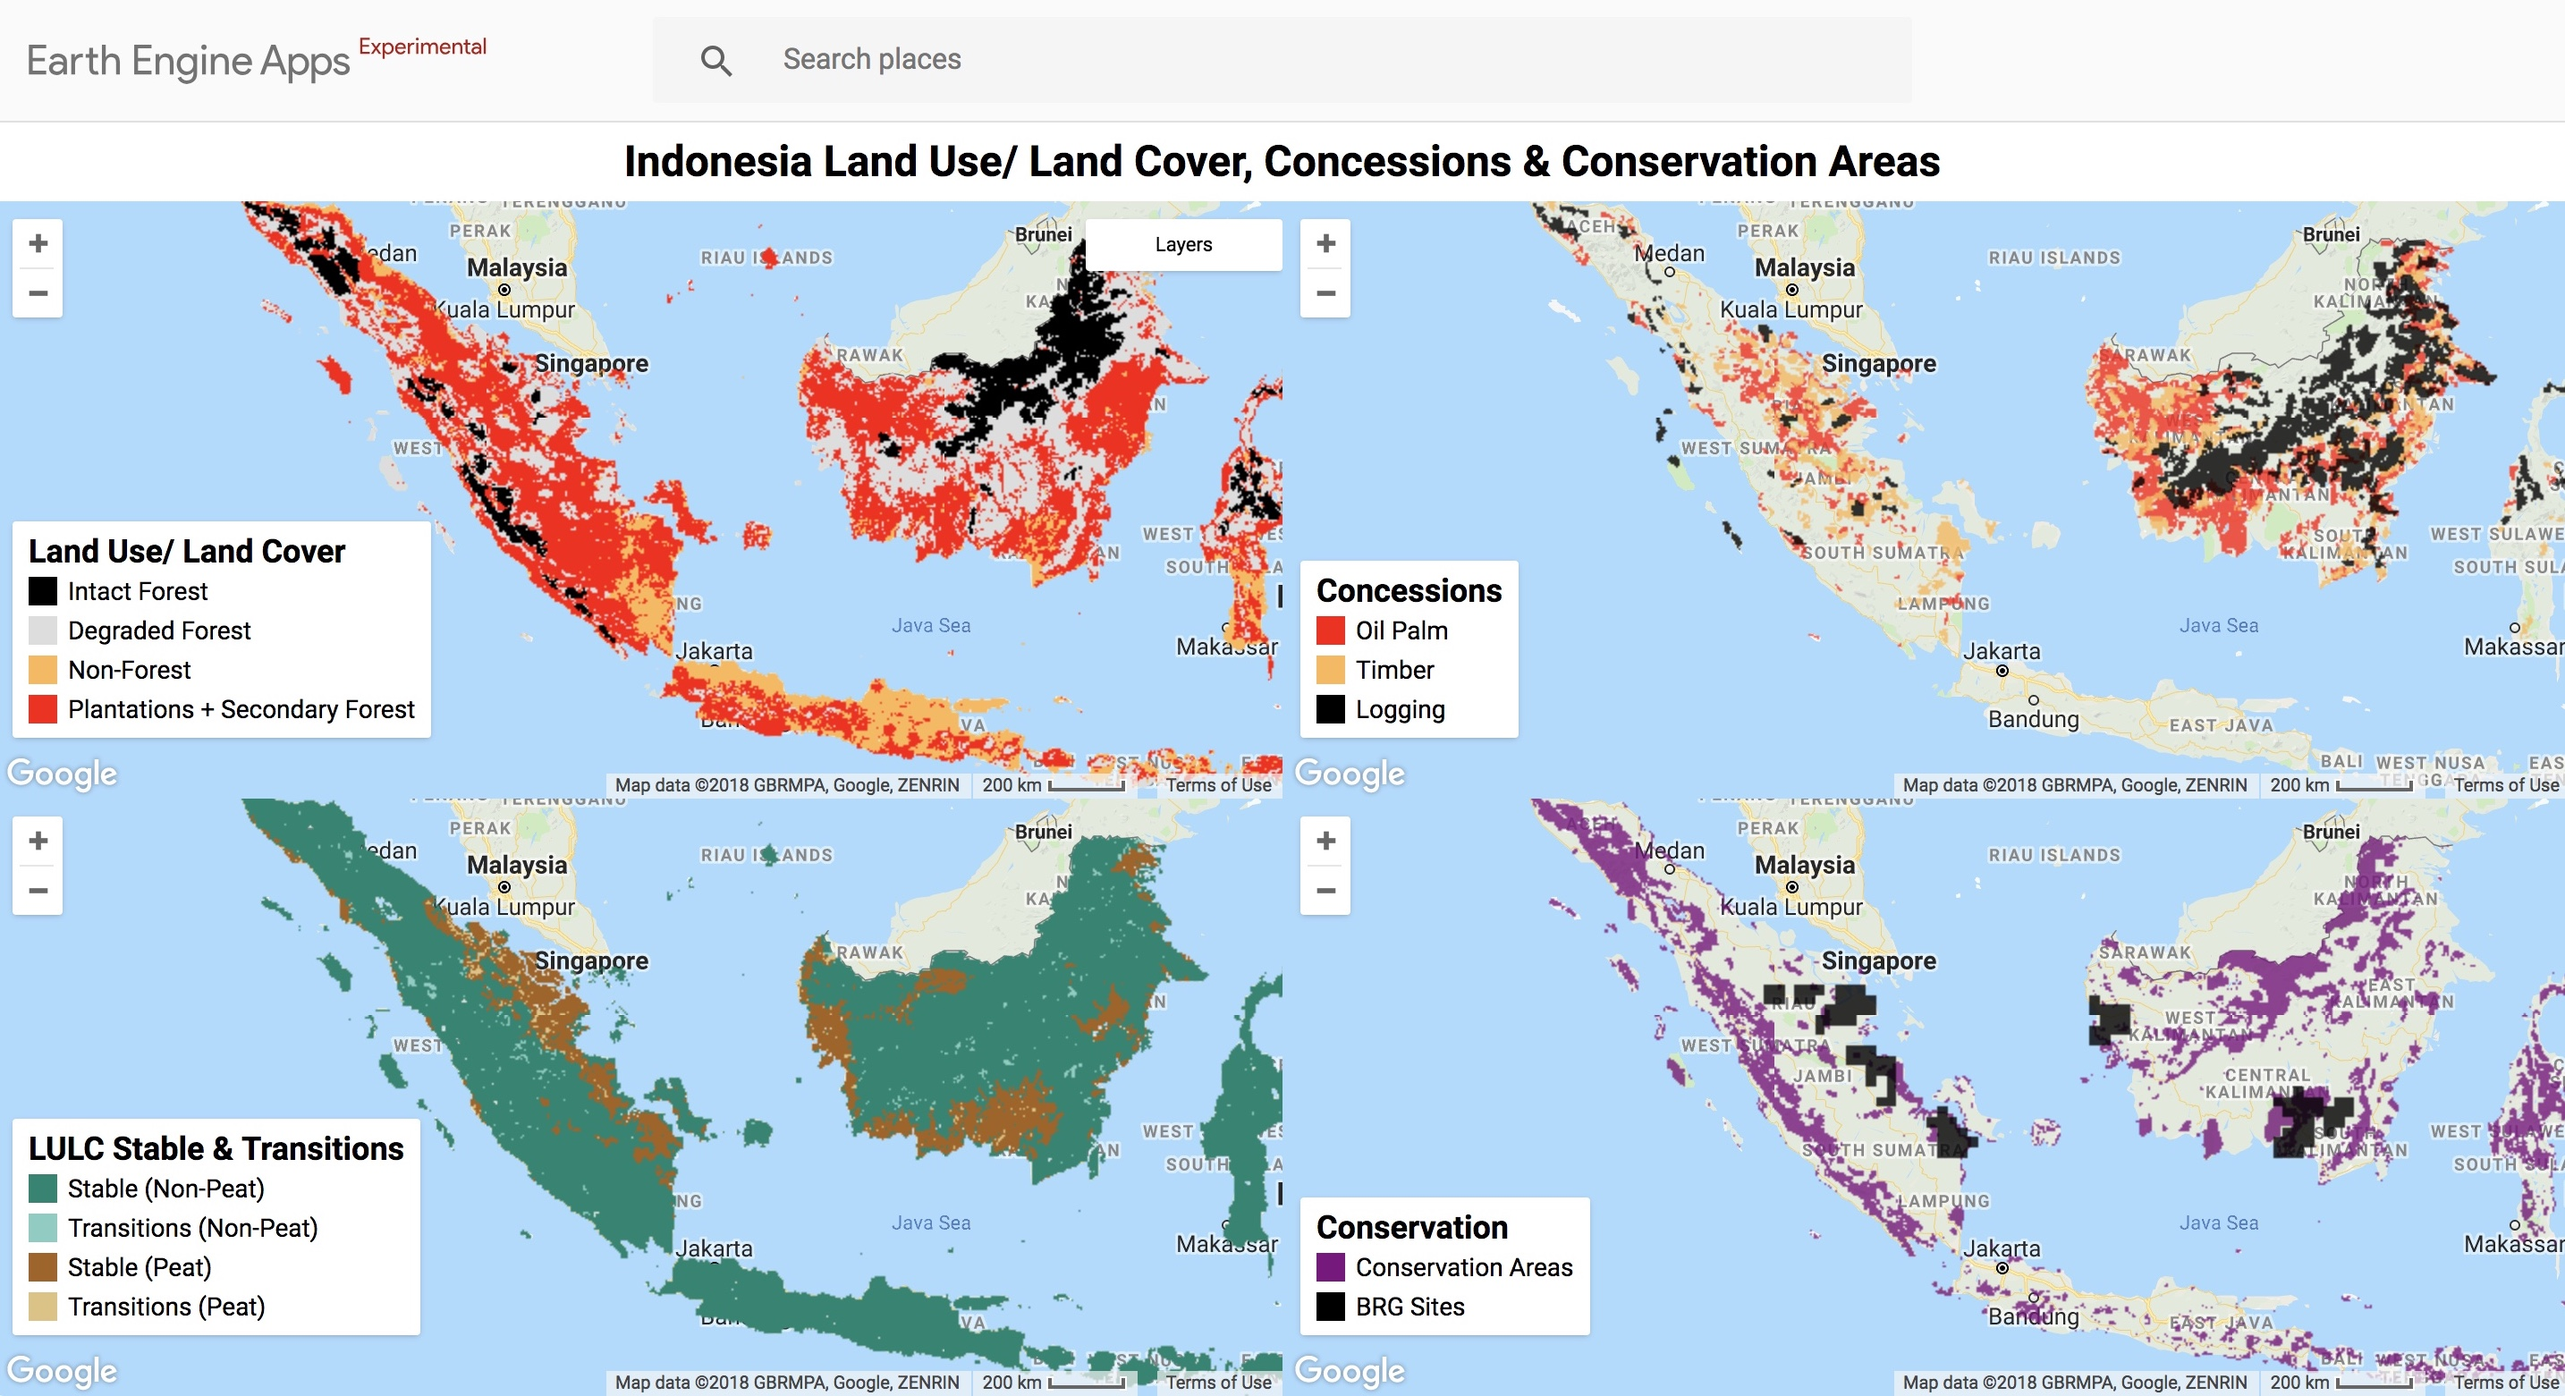
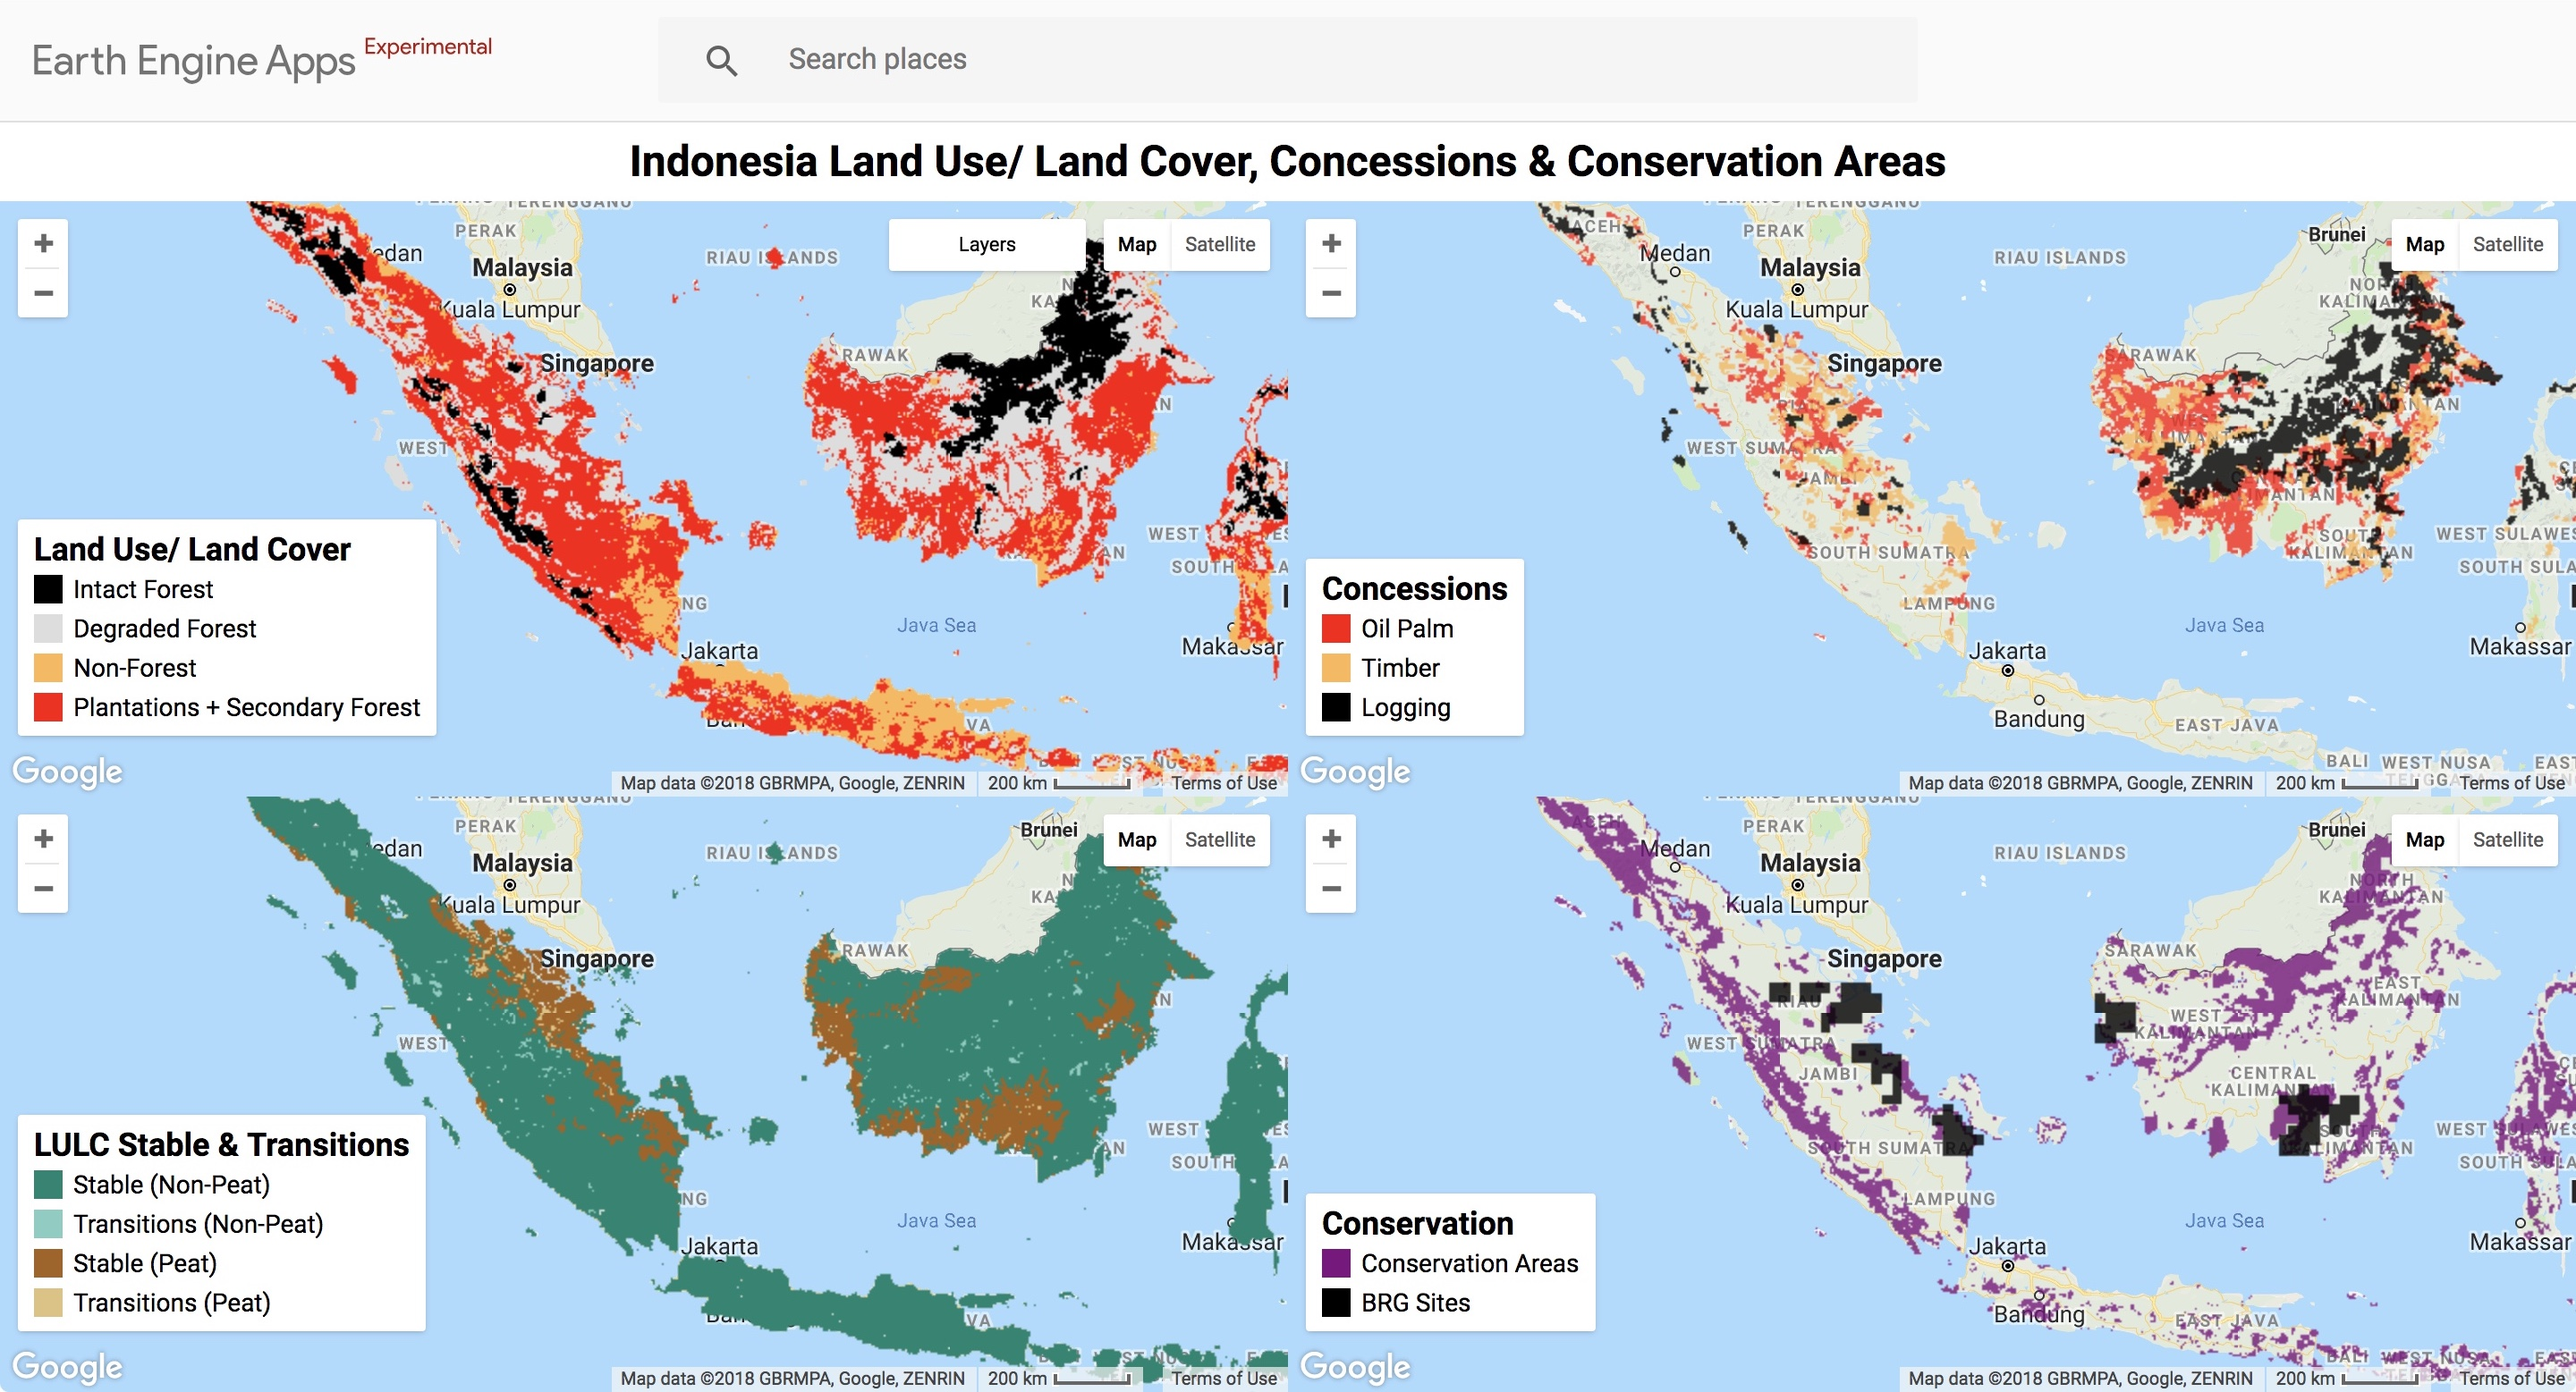
aesthetic changes

diff --git a/apps/SMOKEPolicyTool.js b/apps/SMOKEPolicyTool.js
@@ -6,7 +6,7 @@
 
 // Documentation: https://github.com/tianjialiu/SMOKE-Policy-Tool
 // Author: Tianjia Liu
-// Last updated: August 20, 2018
+// Last updated: August 22, 2018
 
 // Purpose: model and project the impact of Indonesian fires
 // on public health in Equatorial Asia for 2005-2029 based on
@@ -778,7 +778,7 @@ var csn_csvPanel = function(csn_csvBox, controlPanel) {
   controlPanel.add(ui.Label('Other Regions/Conservation:', {margin: '-1px 0px 4px 8px', stretch: 'horizontal'}));
   controlPanel.add(ui.Panel([
     ui.Panel([csn_csvBox[3]], null, {margin: '-2px -10px -2px 5px', stretch: 'horizontal'}),
-    ui.Panel([csn_csvBox[4]], null, {margin: '-11px -10px -2px 2px', stretch: 'horizontal'}),
+    ui.Panel([csn_csvBox[4]], null, {margin: '-10px -10px -2px 2px', stretch: 'horizontal'}),
     ui.Panel([csn_csvBox[5]], null, {margin: '-2px 0px -2px 18px', stretch: 'horizontal'}),
   ],
   ui.Panel.Layout.Flow('horizontal'), {margin: '2px 0px -4px 0px', stretch: 'horizontal'}));
@@ -1031,13 +1031,13 @@ submitButton.onClick(function() {
   var emissMap = getEmissMap(inputYear,metYear,receptor,inMask);
   
   map.clear(); map.setCenter(108,-1,6);
-  map.addLayer(lulcMapTS1.selfMask(),lulc_pal,'LULC Classification ' + lulcMapTS1.get('timestep').getInfo());
+  map.addLayer(lulcMapTS1.selfMask(),lulc_pal,'LULC Classification ' + lulcMapTS1.get('timestep').getInfo(), true);
   map.addLayer(lulcMapTS2.selfMask(),lulc_pal,'LULC Classification ' + lulcMapTS2.get('timestep').getInfo(), false);
   map.addLayer(stableTrans.selfMask(),lulcTrans_pal,'LULC Stable/Transitions', false);
   map.addLayer(sensitivityMap.updateMask(sensitivityMap.gt(1e4)),
     {palette: sensColRamp, max: 1e5, opacity: 0.4},'GEOS-Chem Adjoint Sensitivity (Jul-Oct)',true);
   map.addLayer(PMExposureMap.multiply(100).selfMask(),
-    {palette: PMRamp, max: 20},'PM2.5 Exposure (Jul-Oct), scaled by 100', false);
+    {palette: PMRamp, max: 20},'PM2.5 Exposure (Jul-Oct), scaled by 100', true);
   map.addLayer(emissMap.selfMask(),
     {palette: emissColRamp, max: 5},'OC+BC Emissions (Jul-Oct)', false);
   map.addLayer(populationDensity.selfMask(),
@@ -1048,7 +1048,6 @@ submitButton.onClick(function() {
     min: 0, max: 1, opacity: 0.4},'Design Scenario Mask', false);
   map.addLayer(getBRGmap(PMExposureMap), {palette: '000000,00BFFF', max: 1}, 'BRG Sites');
   map.add(brgLegend());
-  map.setControlVisibility({fullscreenControl: false});
 
   // Display Charts:
   var PMts = getPM(inputYear,metYear,receptor,inMask);

diff --git a/gee_public/UI_SMOKEPolicyTool.js b/gee_public/UI_SMOKEPolicyTool.js
@@ -6,7 +6,7 @@
 /*
 // Documentation: https://github.com/tianjialiu/SMOKE-Policy-Tool
 // Author: Tianjia Liu
-// Last updated: August 20, 2018
+// Last updated: August 22, 2018
 
 // Purpose: model and project the impact of Indonesian fires
 // on public health in Equatorial Asia for 2005-2029 based on
@@ -168,7 +168,7 @@ submitButton.onClick(function() {
   map.addLayer(sensitivityMap.updateMask(sensitivityMap.gt(1e4)),
     {palette: smokePM.sensColRamp, max: 1e5, opacity: 0.4},'GEOS-Chem Adjoint Sensitivity (Jul-Oct)',true);
   map.addLayer(PMExposureMap.multiply(100).selfMask(),
-    {palette: smokePM.PMRamp, max: 20},'PM2.5 Exposure (Jul-Oct), scaled by 100', false);
+    {palette: smokePM.PMRamp, max: 20},'PM2.5 Exposure (Jul-Oct), scaled by 100', true);
   map.addLayer(emissMap.selfMask(),
     {palette: smokePM.emissColRamp, max: 5},'OC+BC Emissions (Jul-Oct)', false);
   map.addLayer(smokeHealth.populationDensity.selfMask(),
@@ -179,7 +179,6 @@ submitButton.onClick(function() {
     min: 0, max: 1, opacity: 0.4},'Design Scenario Mask', false);
   map.addLayer(smokePM.getBRGmap(PMExposureMap), {palette: '000000,00BFFF', max: 1}, 'BRG Sites');
   map.add(plotParams.brgLegend());
-  map.setControlVisibility({fullscreenControl: false});
   
   // Display Charts:
   var PMts = smokePM.getPM(inputYear,metYear,receptor,inMask);

diff --git a/apps/IndonesiaLULCMaps.js b/apps/IndonesiaLULCMaps.js
@@ -6,7 +6,7 @@
 // *****************************************************************
 
 // Author: Tianjia Liu
-// Last updated: August 19, 2018
+// Last updated: August 22, 2018
 
 // Indonesia LULC Maps UI adapted and modified from code by Gennadii Donchyts
 // (https://code.earthengine.google.com/f0011ae8554cf924176fd7a931a38add)
@@ -135,7 +135,7 @@ var conservation_ramp = ['#800080','#000000'];
 var maps = [];
 panelNames.forEach(function(name, index) {
   var map = ui.Map();
-  map.setControlVisibility({layerList: false, fullscreenControl: false, mapTypeControl: false});
+  map.setControlVisibility({layerList: false, fullscreenControl: false});
   
   if (index === 0) {
     map.addLayer(lulcMapTS1.selfMask(),lulc_pal,'LULC, 2005');

diff --git a/gee_public/UI_IndonesiaLULCMaps.js b/gee_public/UI_IndonesiaLULCMaps.js
@@ -6,7 +6,7 @@
 // *****************************************************************
 
 // Author: Tianjia Liu
-// Last updated: August 19, 2018
+// Last updated: August 22, 2018
 
 // UI LULC Maps adapted and modified from code by Gennadii Donchyts
 // (https://code.earthengine.google.com/f0011ae8554cf924176fd7a931a38add)
@@ -51,7 +51,7 @@ var conservation_ramp = ['#800080','#000000'];
 var maps = [];
 panelNames.forEach(function(name, index) {
   var map = ui.Map();
-  map.setControlVisibility({layerList: false, fullscreenControl: false, mapTypeControl: false});
+  map.setControlVisibility({layerList: false, fullscreenControl: false});
   
   if (index === 0) {
     map.addLayer(lulcMapTS1.selfMask(),smokeLULC.lulc_pal,'LULC, 2005');

diff --git a/gee_public/Modules/plotParams.js b/gee_public/Modules/plotParams.js
@@ -73,7 +73,7 @@ exports.csn_csvPanel = function(csn_csvBox, controlPanel) {
   controlPanel.add(ui.Label('Other Regions/Conservation:', {margin: '-1px 0px 4px 8px', stretch: 'horizontal'}));
   controlPanel.add(ui.Panel([
     ui.Panel([csn_csvBox[3]], null, {margin: '-2px -10px -2px 5px', stretch: 'horizontal'}),
-    ui.Panel([csn_csvBox[4]], null, {margin: '-11px -10px -2px 2px', stretch: 'horizontal'}),
+    ui.Panel([csn_csvBox[4]], null, {margin: '-10px -10px -2px 2px', stretch: 'horizontal'}),
     ui.Panel([csn_csvBox[5]], null, {margin: '-2px 0px -2px 18px', stretch: 'horizontal'}),
   ],
   ui.Panel.Layout.Flow('horizontal'), {margin: '2px 0px -4px 0px', stretch: 'horizontal'}));

diff --git a/README.md b/README.md
@@ -5,7 +5,7 @@ SMOKE Policy Tool in Google Earth Engine
 
 ## Public Apps
 (*Earth Engine Apps, no Google Earth Engine account required*)
-1. [**Smoke Policy Tool UI**](https://smokepolicytool.users.earthengine.app/view/smoke-policy-tool): main tool for modeling and projecting the impact of Indonesian fires on public health in Equatorial Asia for 2005-2029 based on land cover/ land use (LULC) classification, Global Fire Emissions Database, version 4s ([GFEDv4s](https://www.globalfiredata.org/)) fire emissions, and meteorology
+1. [**SMOKE Policy Tool UI**](https://smokepolicytool.users.earthengine.app/view/smoke-policy-tool): main tool for modeling and projecting the impact of Indonesian fires on public health in Equatorial Asia for 2005-2029 based on land cover/ land use (LULC) classification, Global Fire Emissions Database, version 4s ([GFEDv4s](https://www.globalfiredata.org/)) fire emissions, and meteorology
 <br><br>
 ![banner image](https://github.com/tianjialiu/SMOKE-Policy-Tool/blob/master/docs/imgs/SMOKEPolicyTool_EEApps.jpeg)
 
@@ -23,7 +23,7 @@ SMOKE Policy Tool in Google Earth Engine
 *Select a population-weighted receptor: Indonesia, Singapore, or Malaysia.* A receptor is a location of interest that may be sensitive to pollutants upwind. In this case, the tool estimates and projects the public health impacts in Indonesia, Singapore, or Malaysia based on its respective sensitivity to upwind smoke from fires in Indonesia.
 
 ### Step 4. (Optional) Build a custom scenario by blocking fire emissions in select regions
-In custom scenarios, fire activity can be blocked in a combination of concessions (Oil Palm, Timber, Logging), other regions/ conservation areas (Peatlands, Conservation Areas, and BRG Sites), and Indonesia provinces. Badan Restorasi Gambu (BRG) sites were recently established following the 2015 severe haze event to restore the hydrology of damaged peatlands in Sumatra, Kalimantan, and Papua over a five-year period (https://brg.go.id). Indonesia provinces must be selected by IDs; as an example, to select Aceh and Riau, write in the widget: 0,24. The default option for Indonesian provinces is 'Block all fires', but another option available is 'Target conservation efforts'. In the 'Target conservation efforts' mode, if a concession is selected with a province, fire emissions are only reduced for that concession and province.
+In custom scenarios, fire activity can be blocked in a combination of concessions (Oil Palm, Timber, Logging), other regions/ conservation areas (Peatlands, Conservation Areas, and BRG Sites), and Indonesia provinces. Badan Restorasi Gambu (BRG) sites were recently established following the 2015 severe haze event to restore the hydrology of damaged peatlands in Sumatra, Kalimantan, and Papua over a five-year period (https://brg.go.id). Indonesia provinces must be selected by IDs; as an example, to select Aceh and Riau, write in the widget: 0,24. The default option for Indonesian provinces is 'Block all fires', but another option available is 'Target conservation efforts'. In the 'Target conservation efforts' mode, if a concession is selected with a province, fire emissions are only reduced in areas co-located with that concession within that province.
 
 ### Indonesia Provinces by IDs
 | ID | Sumatera | ID | Kalimantan | ID | Rest of Indonesia |
@@ -74,7 +74,7 @@ In custom scenarios, fire activity can be blocked in a combination of concession
 |   |   |   |   | 33 | Yogyakarta |
 
 ### Public Health Impacts
-After submitting a scenario, please wait a few seconds (~4-7 seconds). Legends will display in the left panel below the 'Submit Scenario' button, and map layers will display in the middle panel. Three charts will be generated and displayed in the right panel: 1. Timeseries of smoke PM<sub>2.5</sub> exposure at the receptor, 2. Pie chart of smoke PM<sub>2.5</sub> contribution by Indonesia province, and 3. Table of attributable mortality for the current and business-as-usual (BAU) scenarios. The tool also calculates the top 5 priority grid cells with BRG sites to reduce emissions; emissions in these grid cells contribute the highest fraction of smoke exposure to the receptor. Map layers can be turned on and off from the 'Layers' dropdown list; currently, if you switch to 'Satellite' view, you must toggle the map layers off and on again to view them.
+After submitting a scenario, please wait a few seconds (~4-7 seconds). Legends will display in the left panel below the 'Submit Scenario' button, and map layers will display in the middle panel. Three charts will be generated and displayed in the right panel: 1. Timeseries of smoke PM<sub>2.5</sub> exposure at the receptor, 2. Pie chart of smoke PM<sub>2.5</sub> contribution by Indonesia province, and 3. Table of attributable mortality for the current and business-as-usual (BAU) scenarios. The tool also calculates the top 5 priority grid cells with BRG sites to reduce emissions; emissions in these grid cells contribute the highest fraction of smoke exposure to the receptor. Map layers can be turned on and off from the 'Layers' dropdown list.
 <br><br>
 
 ## Google Earth Engine Code Editor GUI
